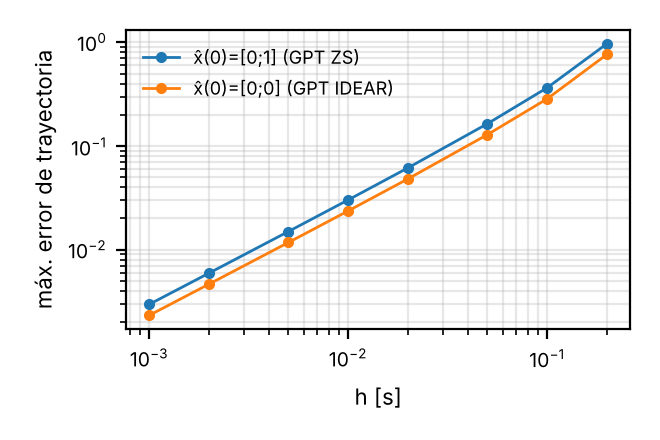
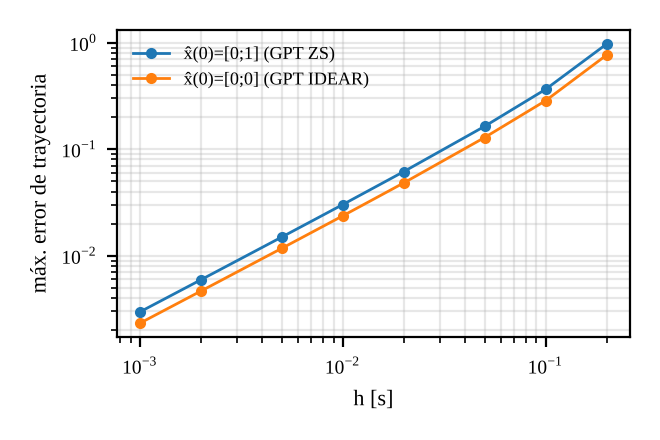
Figuras con tipografía tipo Times y leyenda Ec. (4) corregida
Claude-Session: https://claude.ai/code/session_01EadML5HGY69yqX6GZctK51

diff --git a/verificacion/verificacion.py b/verificacion/verificacion.py
@@ -14,6 +14,7 @@ import scipy, scipy.signal as sg
 from scipy.linalg import expm
 import control as ct
 import matplotlib
+matplotlib.rcParams.update({"font.family":"serif","font.serif":["Liberation Serif","TeX Gyre Termes"],"mathtext.fontset":"stix","pdf.fonttype":42,"ps.fonttype":42})  # tipografía tipo Times
 matplotlib.use("Agg")
 import matplotlib.pyplot as plt
 
@@ -71,7 +72,7 @@ for nombre, S in realiz.items():
       f"err total={np.abs(y_ok-yT).max():.1e}")
     if fig_data is None: fig_data = (y_to, y_ok)
 plt.figure(figsize=(3.3, 2.2))
-plt.plot(t, yT, "k", lw=1.6, label="Analítica, Ec. (7)")
+plt.plot(t, yT, "k", lw=1.6, label="Analítica, Ec. (4)")
 plt.plot(t, fig_data[0], "r--", lw=1.2, label="Código original")
 plt.plot(t, fig_data[1], "b:", lw=1.6, label="Código corregido")
 plt.xlabel("t [s]", fontsize=8); plt.ylabel("y(t)", fontsize=8); plt.grid(alpha=.3)
